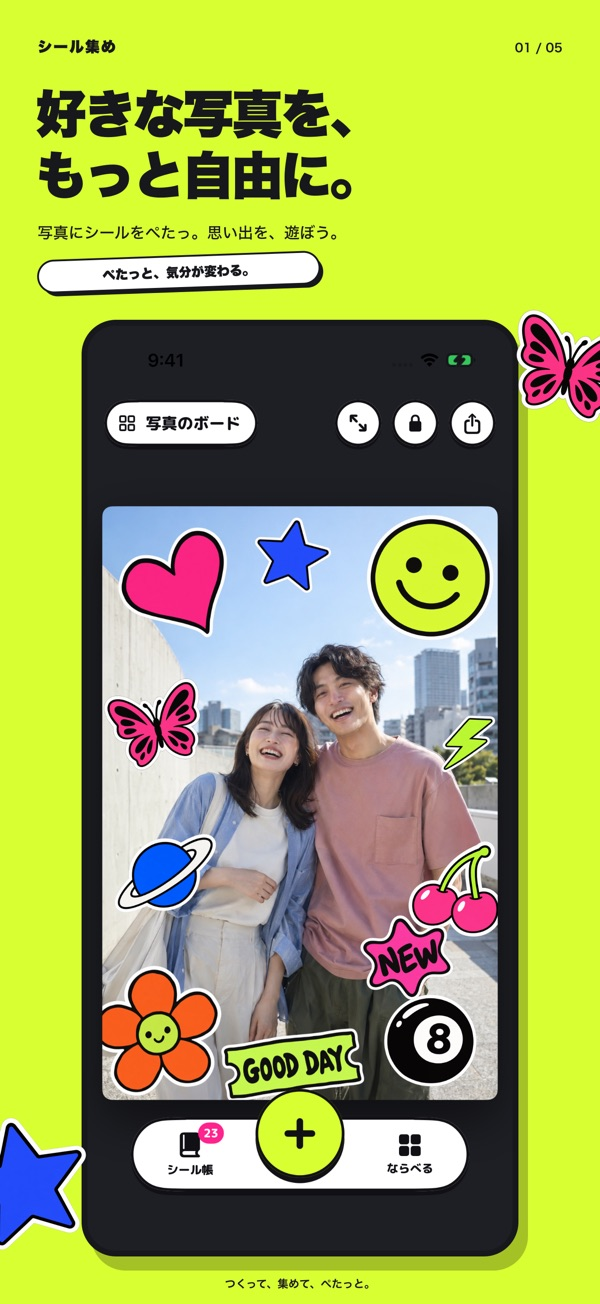
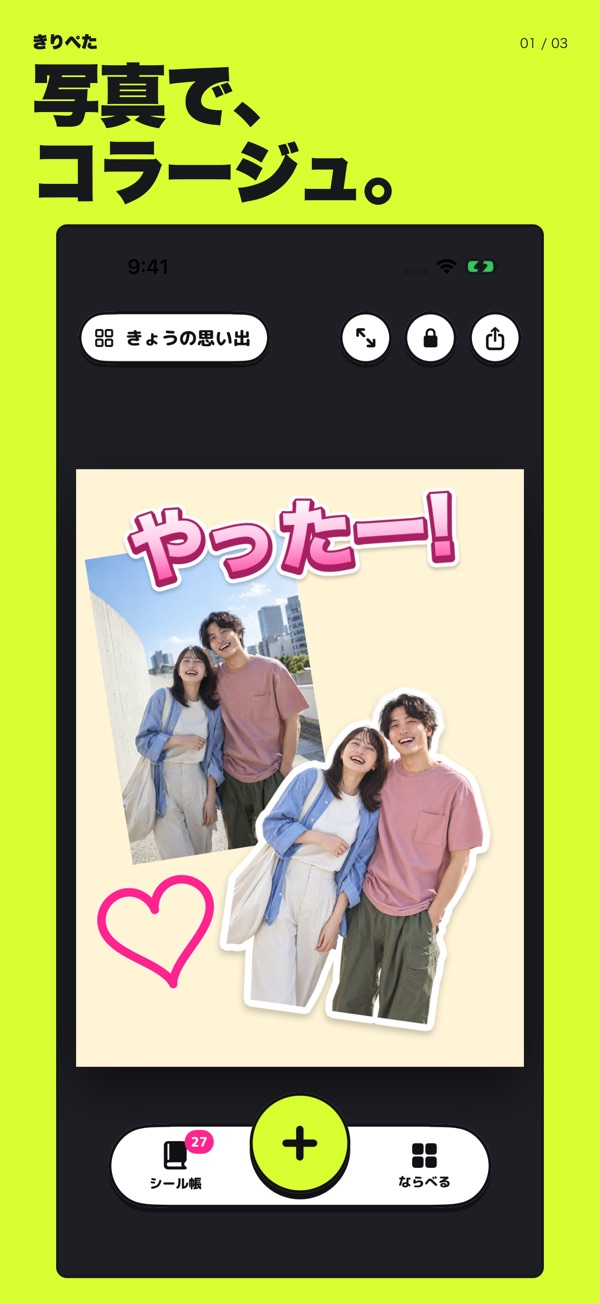
content(seal-atsume): refresh renamed Japanese App Store screenshots

diff --git a/lib/apps.ts b/lib/apps.ts
@@ -297,7 +297,7 @@ export const publishedApps: PublishedApp[] = [
     tint: '#E2E5F5',
     shotAlts: {
       ja: [
-        'きりぺたのボード画面。写真の上にハートやスマイルのシールを貼っている',
+        'きりぺたのボード画面。写真と切り抜いた人物、文字やハートのシールを並べたコラージュ',
         'きりぺたのシール編集画面。切り抜いた人物にフチの太さと色を選ぶ',
       ],
       en: [
